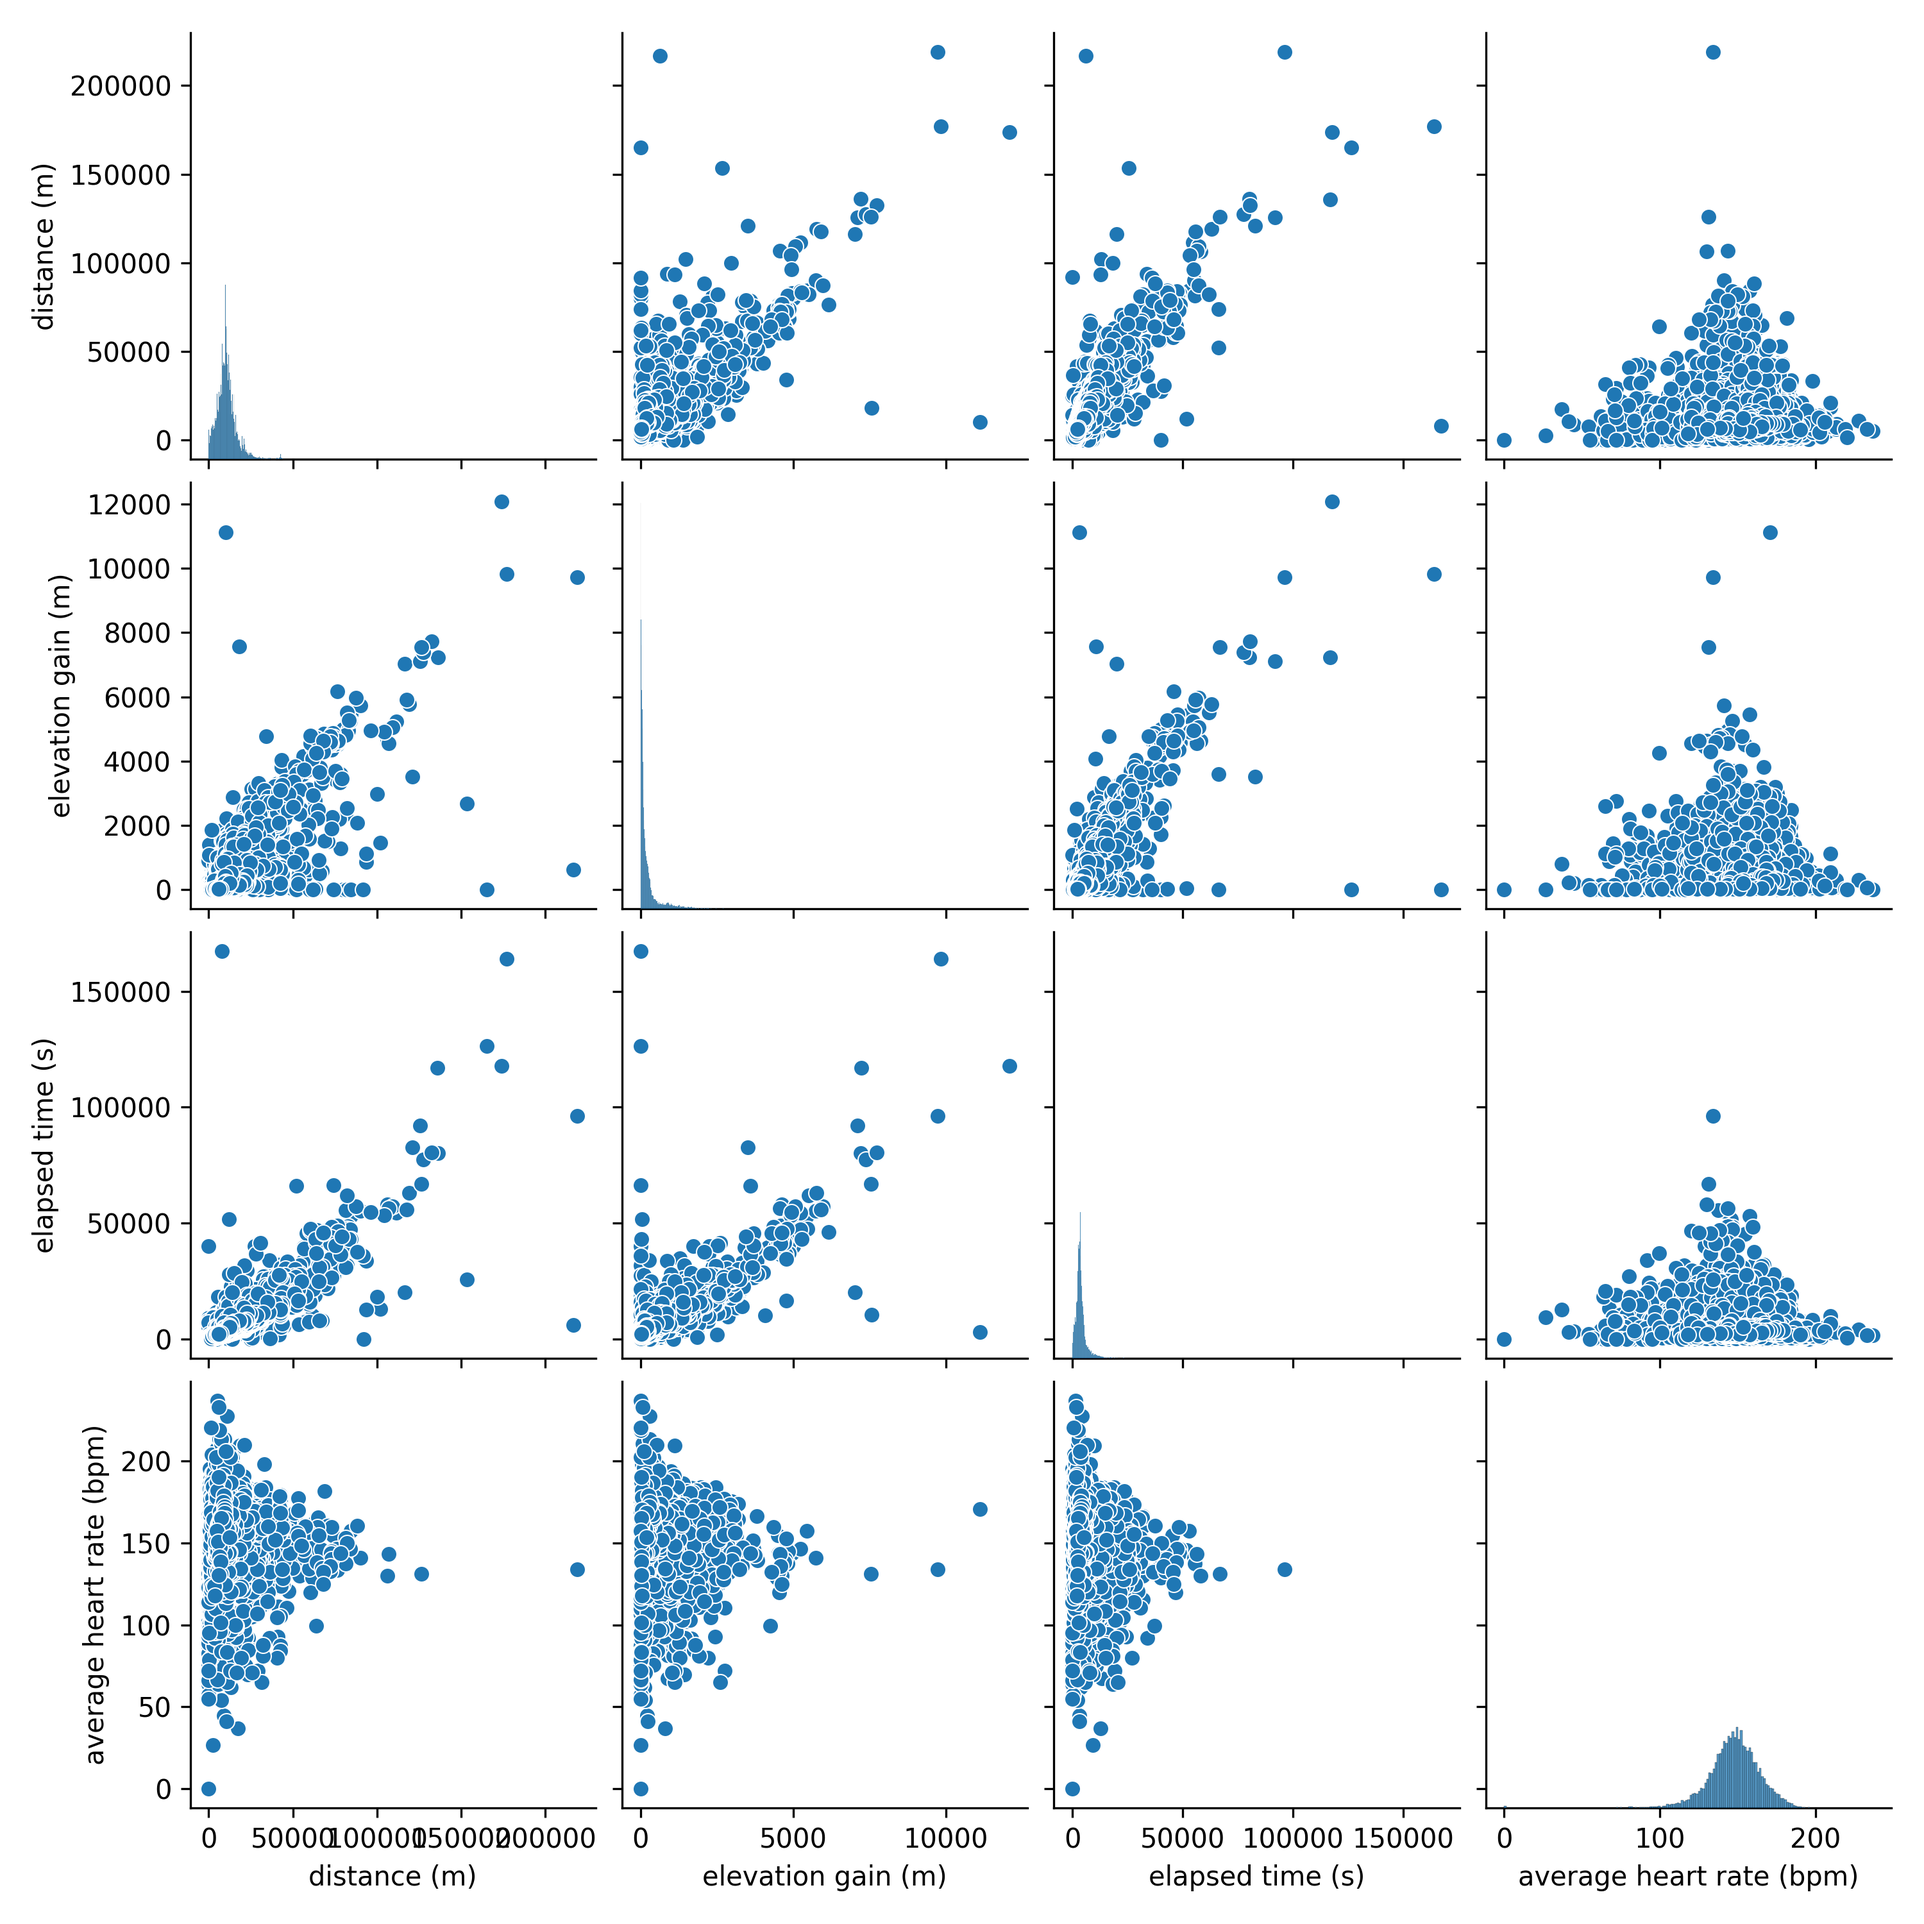
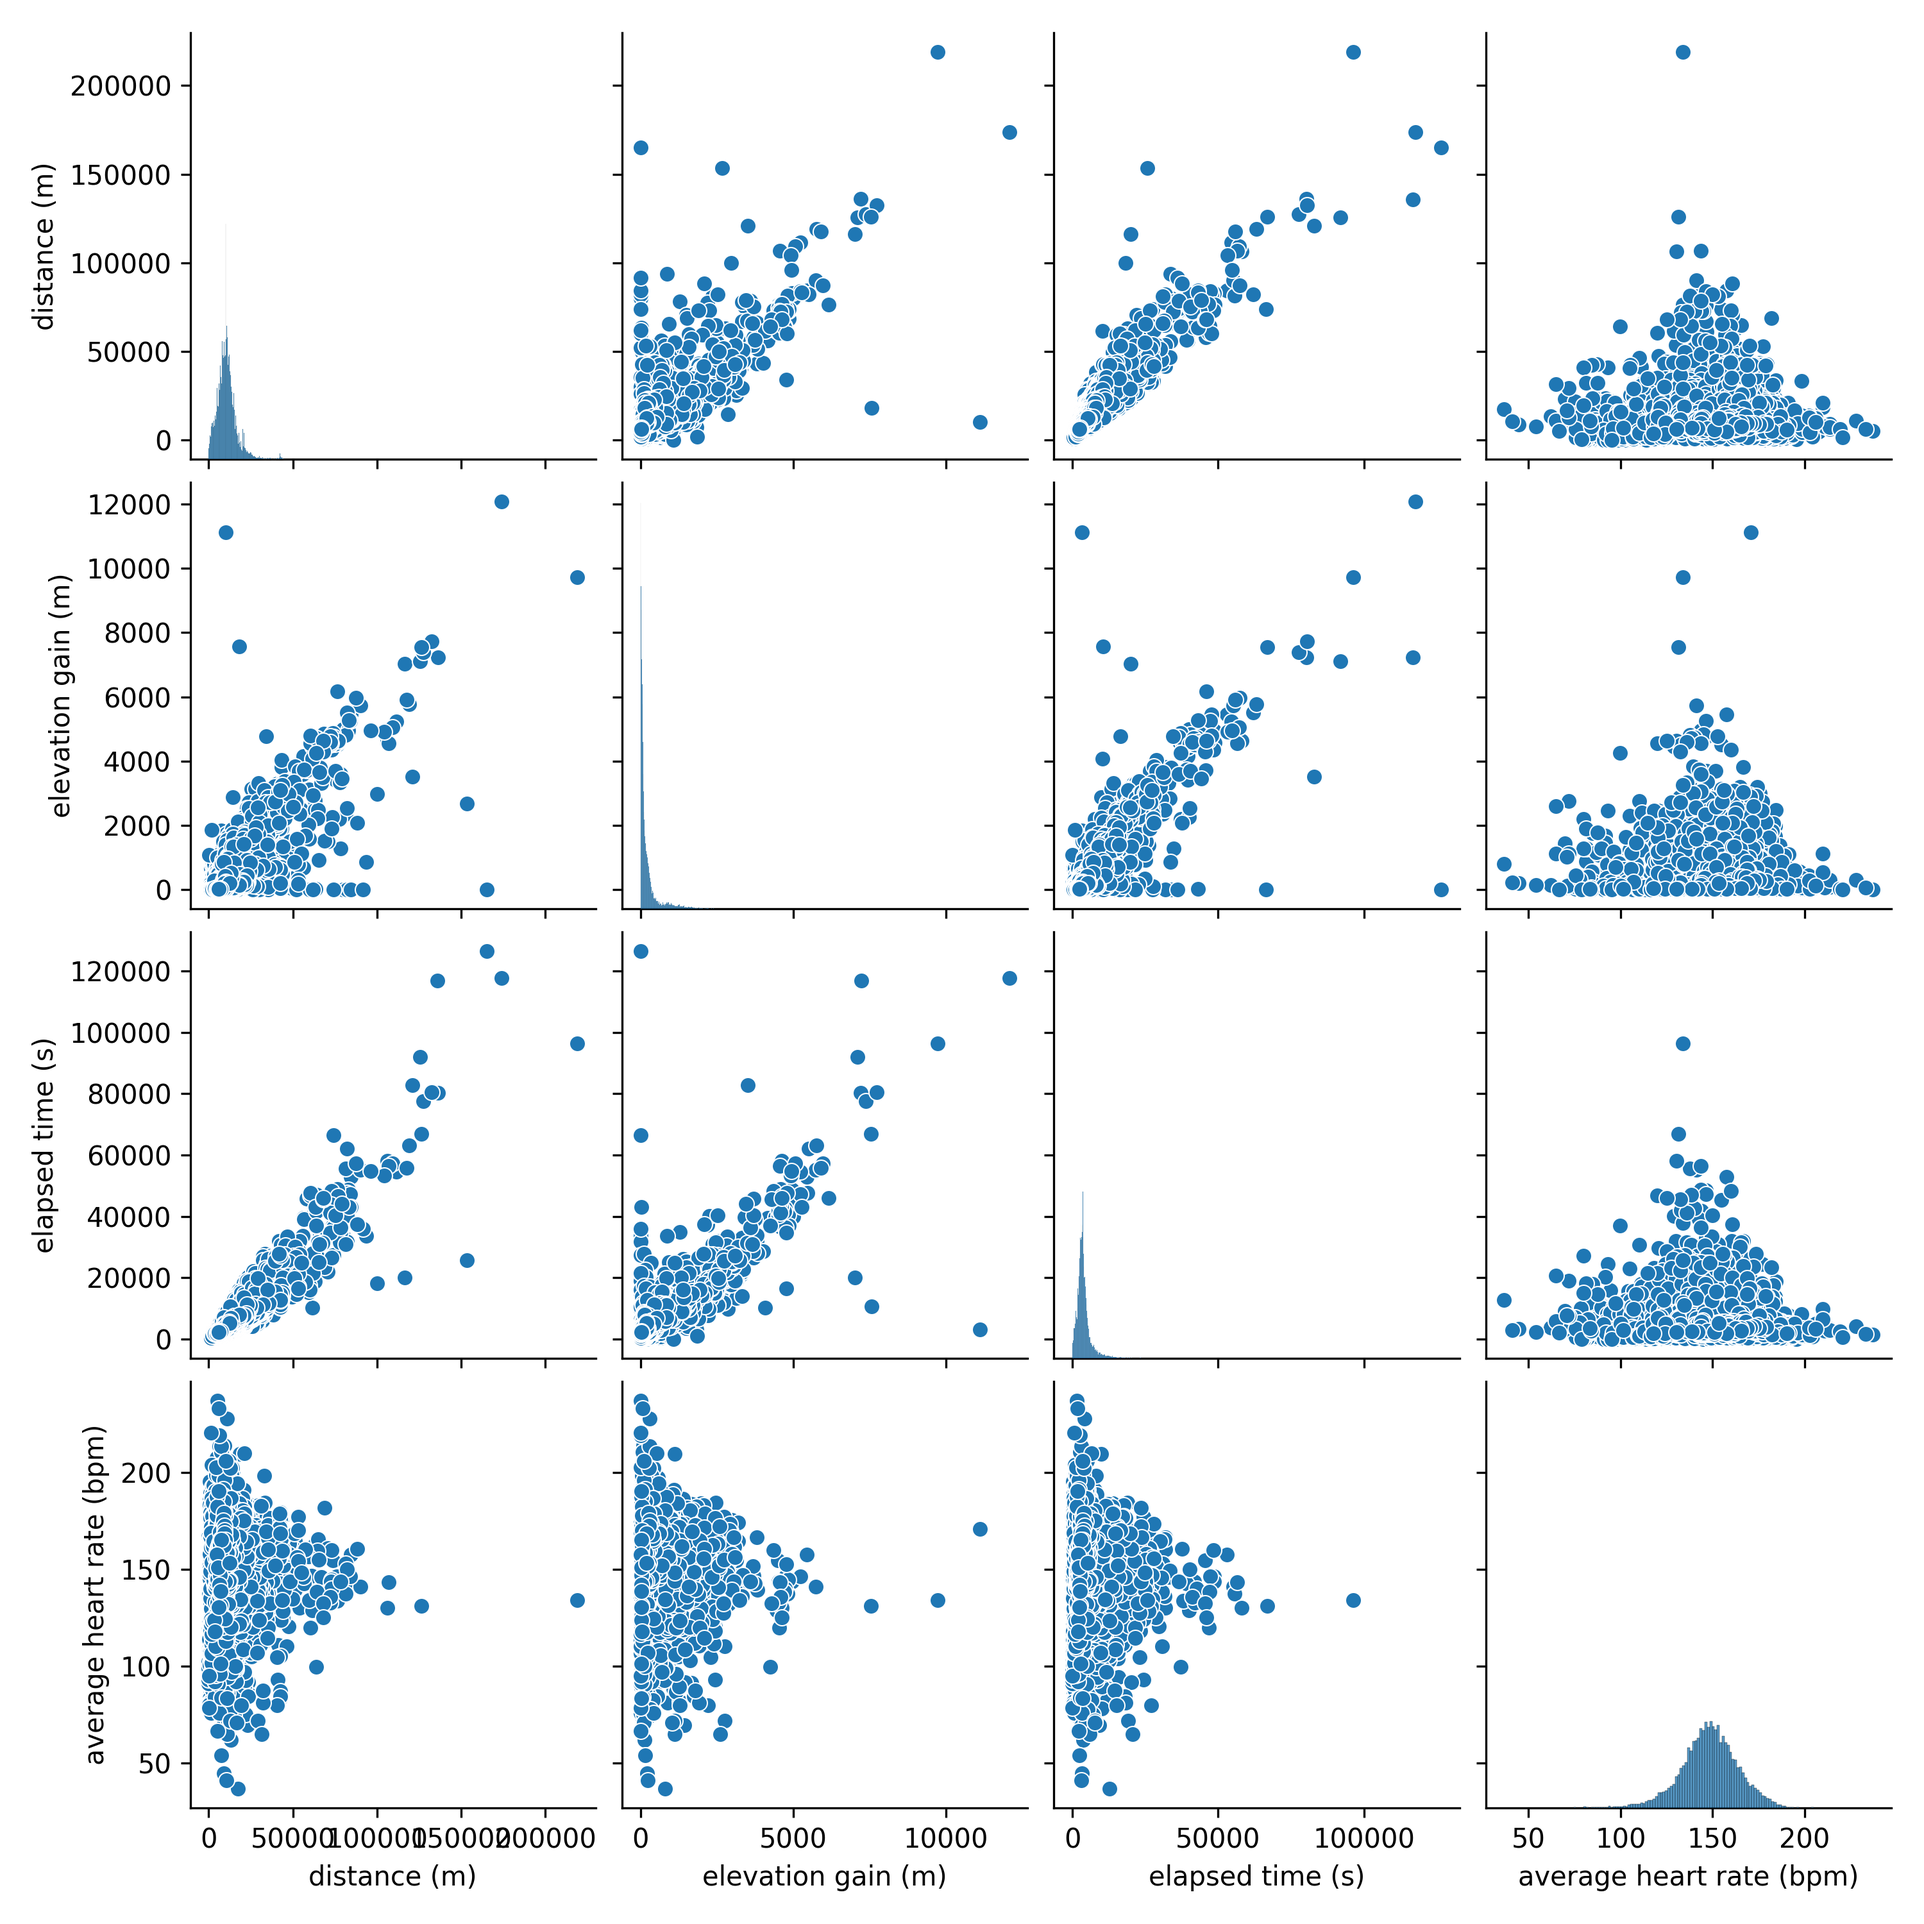
Removing outliers from data 1.0

diff --git a/machineLearning.py b/machineLearning.py
@@ -7,37 +7,56 @@ strava_data = pd.read_csv('raw-data-kaggle.csv')
 
 head = strava_data.head()
 
-unique_athletes = strava_data.athlete.unique()
+nunique_athletes = strava_data.athlete.nunique()
 
-#Adding average pace (min/km)
+#Adding pace
+strava_data['pace (min/km)'] = (strava_data['elapsed time (s)'] / 60) /(strava_data['distance (m)'] * 0.001)
+
+#Removing Outliers
+strava_data = strava_data.drop(strava_data[strava_data['elapsed time (s)'] >= 180000].index)
+strava_data = strava_data.drop(strava_data[strava_data['elapsed time (s)'] == 0].index)
+strava_data = strava_data.drop(strava_data[strava_data['distance (m)'] == 0].index)
+strava_data = strava_data.drop(strava_data[strava_data['pace (min/km)'] < 2.56333].index) #Fastest pace in the world for 5 km run.
+strava_data = strava_data.drop(strava_data[strava_data['pace (min/km)'] > 15].index) #Based on slow walking speed.
+
+
+#Analysis of average pace (min/km)
+pace_info = strava_data['pace (min/km)'].describe()
+pace_largest_smallest = strava_data.sort_values(by=['pace (min/km)'], ascending=False)
+print(pace_largest_smallest)
+
+plt.hist(strava_data['pace (min/km)'], bins=100)
+plt.xlabel('Pace (min/km)')
+plt.ylabel('Frequency')
+plt.show()
+
 
 #Analysis of elapsed time
 elapsed_time_data = strava_data['elapsed time (s)']
 elapsed_info = elapsed_time_data.describe()
-print(elapsed_info)
-
 elapsed_time_largest_smallest = strava_data.sort_values(by=['elapsed time (s)'], ascending=False)
-print(elapsed_time_largest_smallest)
+
 
 #Analysis of distance
 distance_data = strava_data['distance (m)']
 distance_info = distance_data.describe()
-print(distance_info)
-
 distance_largest_smallest = strava_data.sort_values(by=['distance (m)'], ascending=False)
-print(distance_largest_smallest)
 
-strava_data = strava_data.drop(strava_data[strava_data['elapsed time (s)'] >= 180000].index)
+
+#Analysis of cleaned data
+print(strava_data.head())
+print(strava_data.describe)
+
 
 sns.pairplot(strava_data, vars=['distance (m)', 'elevation gain (m)', 'elapsed time (s)', 'average heart rate (bpm)'])
 plt.savefig('strava_pairplot.png', dpi=300)
-plt.show() 
 
 
 
 '''Analyse data, and clean for better performance of ML:
 1. Analyse data with pairplots
 2. Check weather to standardize or normalise data, most likely standardize
+    - Perform categorical encoding for M/F
 3. Split data into features and labels
 4. Split data into train and test'''
 
